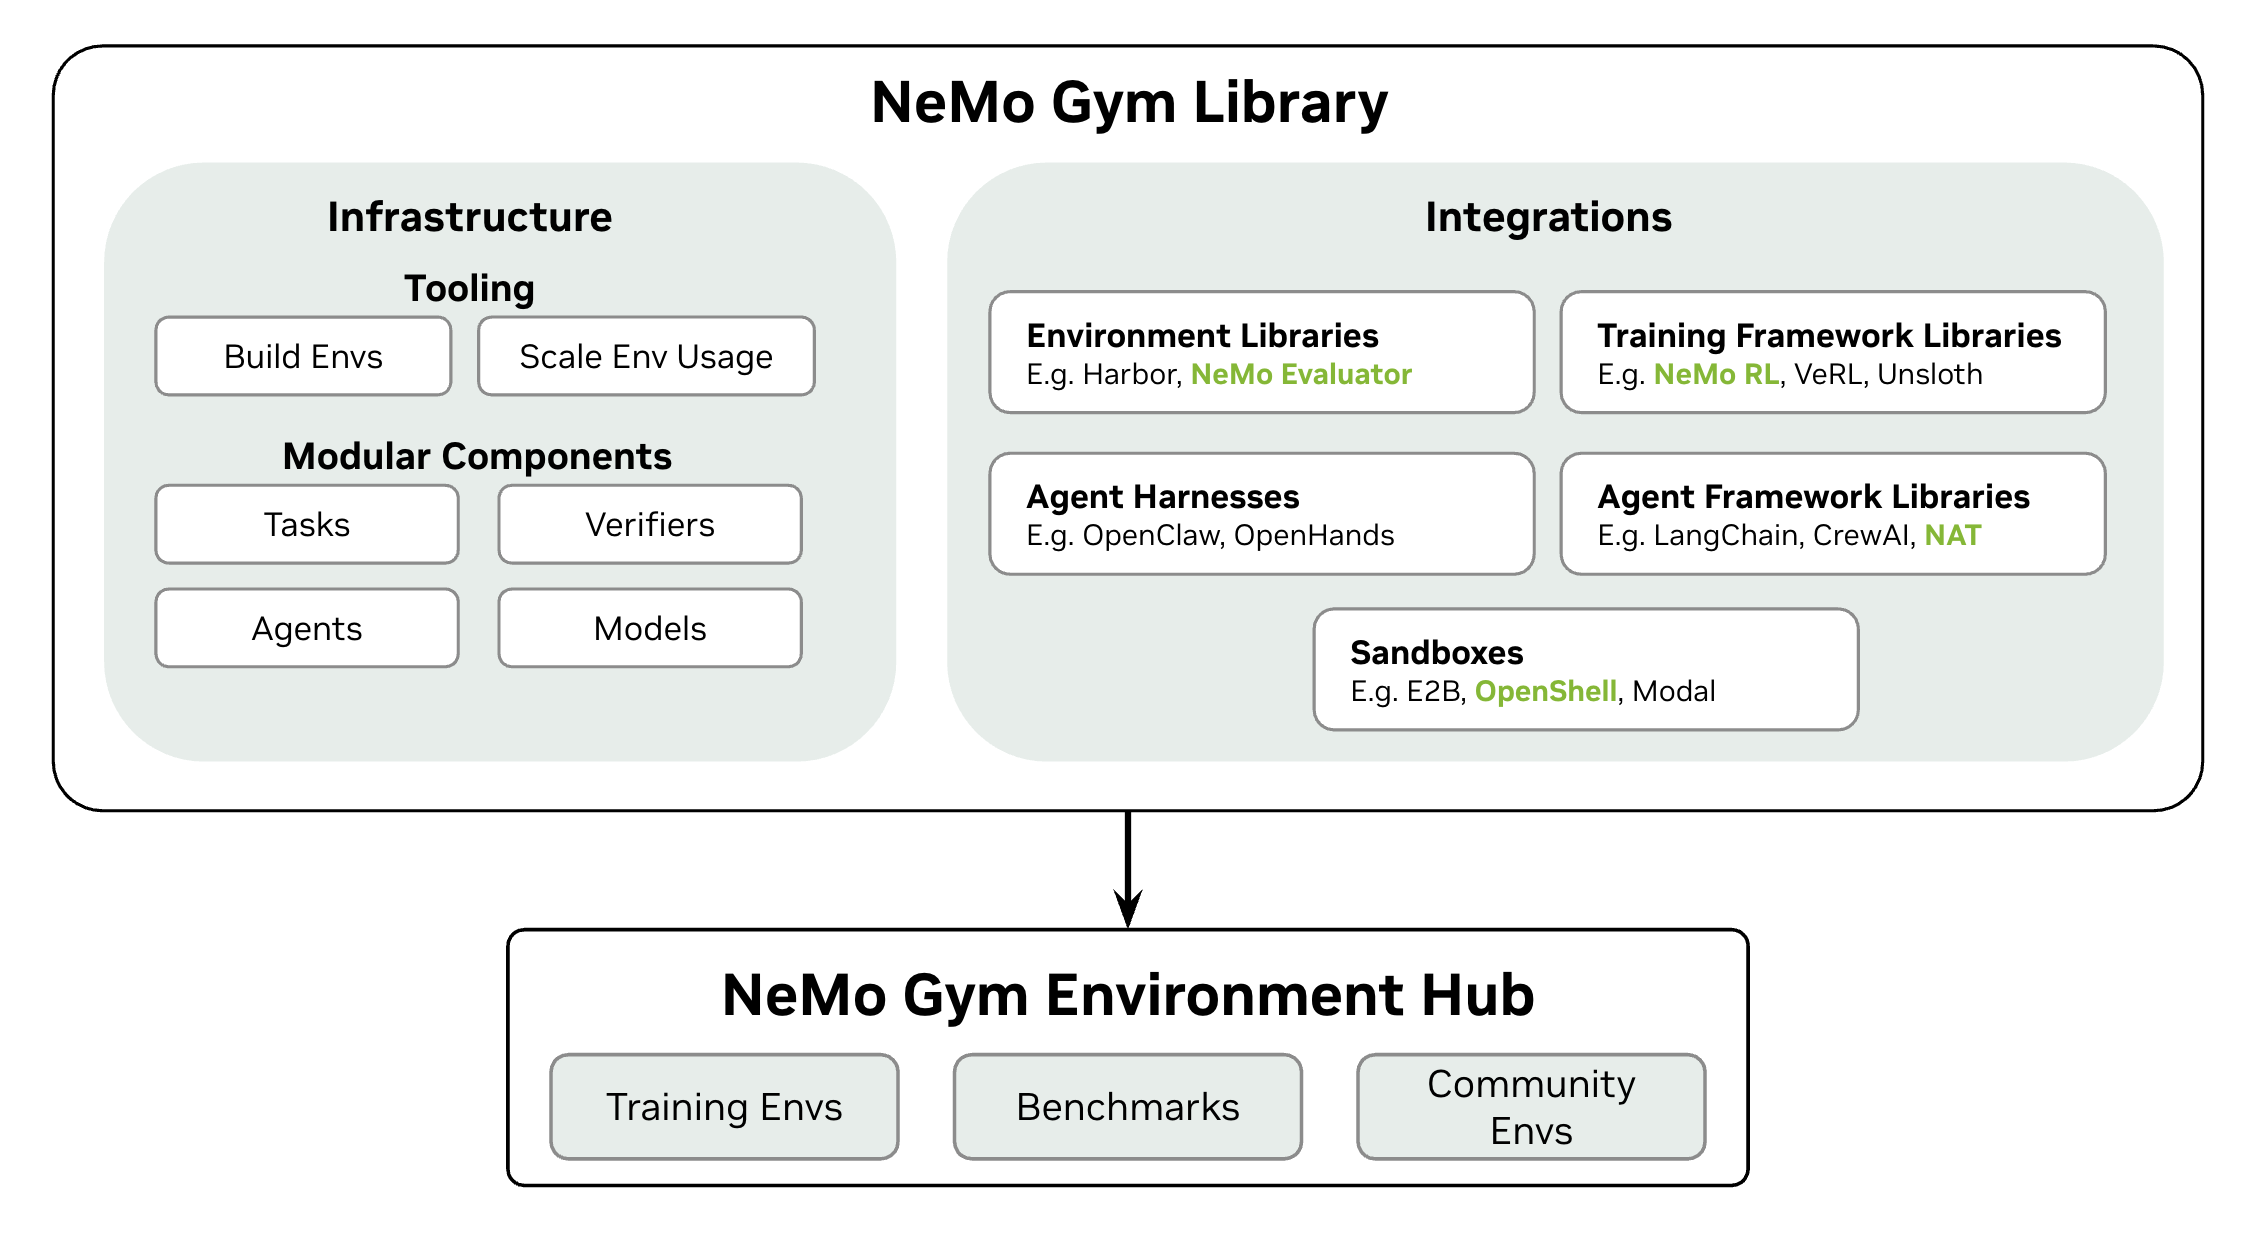
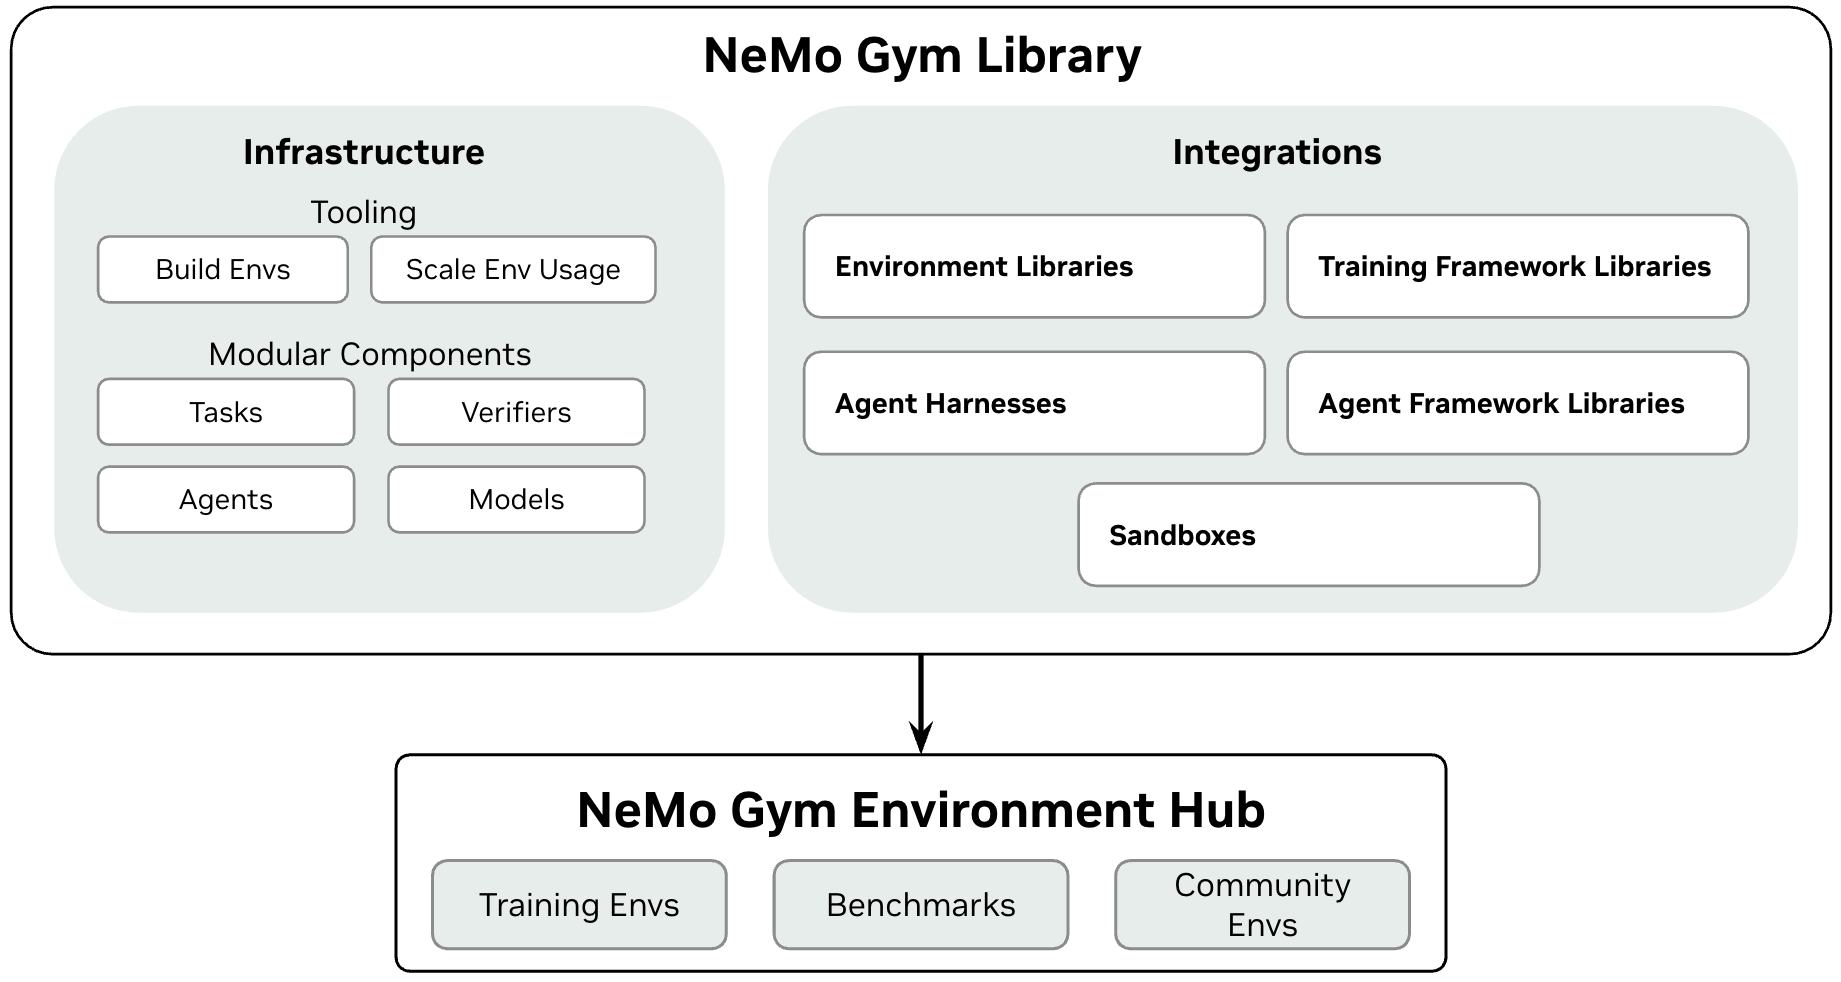
docs: address PR feedback — update diagram, ecosystem, and training integrations
Remove specific examples from product overview diagram to avoid partial/inaccurate
listings. Add benchmarks to environment libraries description. Replace OpenRLHF with
VeRL in training framework libraries. Add agent optimization to value prop.

Changed region(s): [[0.0, 0.0, 1.0, 1.0]]

diff --git a/README.md b/README.md
@@ -9,7 +9,7 @@ NeMo Gym is a library for evaluating and improving models and agents using envir
 - Modular, extensible interfaces for agents, environments, tasks, verifiers
 - Environment hub of popular agents, training environments, and benchmarks
 - Scale to thousands of concurrent environments
-- Seamlessly transition between evaluation and training
+- Seamlessly transition between evaluation, agent optimization and training
 - Train with the RL framework of your choice
 - Battle-tested in production Nemotron training
 
@@ -30,11 +30,11 @@ NeMo Gym is part of [NVIDIA NeMo](https://docs.nvidia.com/nemo/gym/latest/about/
 NVIDIA's GPU-accelerated platform for building and training 
 generative AI models. NeMo Gym is integrated with the broader agentic ecosystem. See the [Ecosystem](https://docs.nvidia.com/nemo/gym/latest/about/ecosystem.html) page for more details.
 
-**Environment Libraries:** Seamlessly combine environments from other libraries alongside NeMo Gym environments.
+**Environment Libraries:** Seamlessly combine environments and benchmarks from other libraries alongside NeMo Gym environments.
 [Aviary](https://github.com/NVIDIA-NeMo/Gym/tree/main/resources_servers/aviary) • [Harbor](https://github.com/NVIDIA-NeMo/Gym/tree/main/responses_api_agents/harbor_agent) • [OpenEnv](https://github.com/NVIDIA-NeMo/Gym/tree/main/resources_servers/openenv) • [Reasoning Gym](https://github.com/NVIDIA-NeMo/Gym/tree/main/resources_servers/reasoning_gym) • [Verifiers](https://github.com/NVIDIA-NeMo/Gym/tree/main/responses_api_agents/verifiers_agent)
 
 **Training Framework Libraries:** Use environments for SFT and RL training.
-[NeMo RL](https://docs.nvidia.com/nemo/gym/latest/training-tutorials/nemo-rl-grpo/index.html) • [OpenRLHF](https://github.com/OpenRLHF/OpenRLHF/blob/main/examples/python/agent_func_nemogym_executor.py) • [Unsloth](https://docs.nvidia.com/nemo/gym/latest/training-tutorials/unsloth-training.html)
+[NeMo RL](https://docs.nvidia.com/nemo/gym/latest/training-tutorials/nemo-rl-grpo/index.html) •  [Unsloth](https://docs.nvidia.com/nemo/gym/latest/training-tutorials/unsloth-training.html) • [VeRL](https://github.com/verl-project/verl-recipe/tree/main/nemo_gym)
 
 **Agent Harnesses:** Popular agent harnesses for evaluation and training available out of the box.
 [Mini SWE Agent](https://github.com/NVIDIA-NeMo/Gym/tree/main/responses_api_agents/mini_swe_agent) • [OpenHands](https://github.com/NVIDIA-NeMo/Gym/tree/main/responses_api_agents/swe_agents) • [SWE Agent](https://github.com/NVIDIA-NeMo/Gym/tree/main/responses_api_agents/swe_agents)